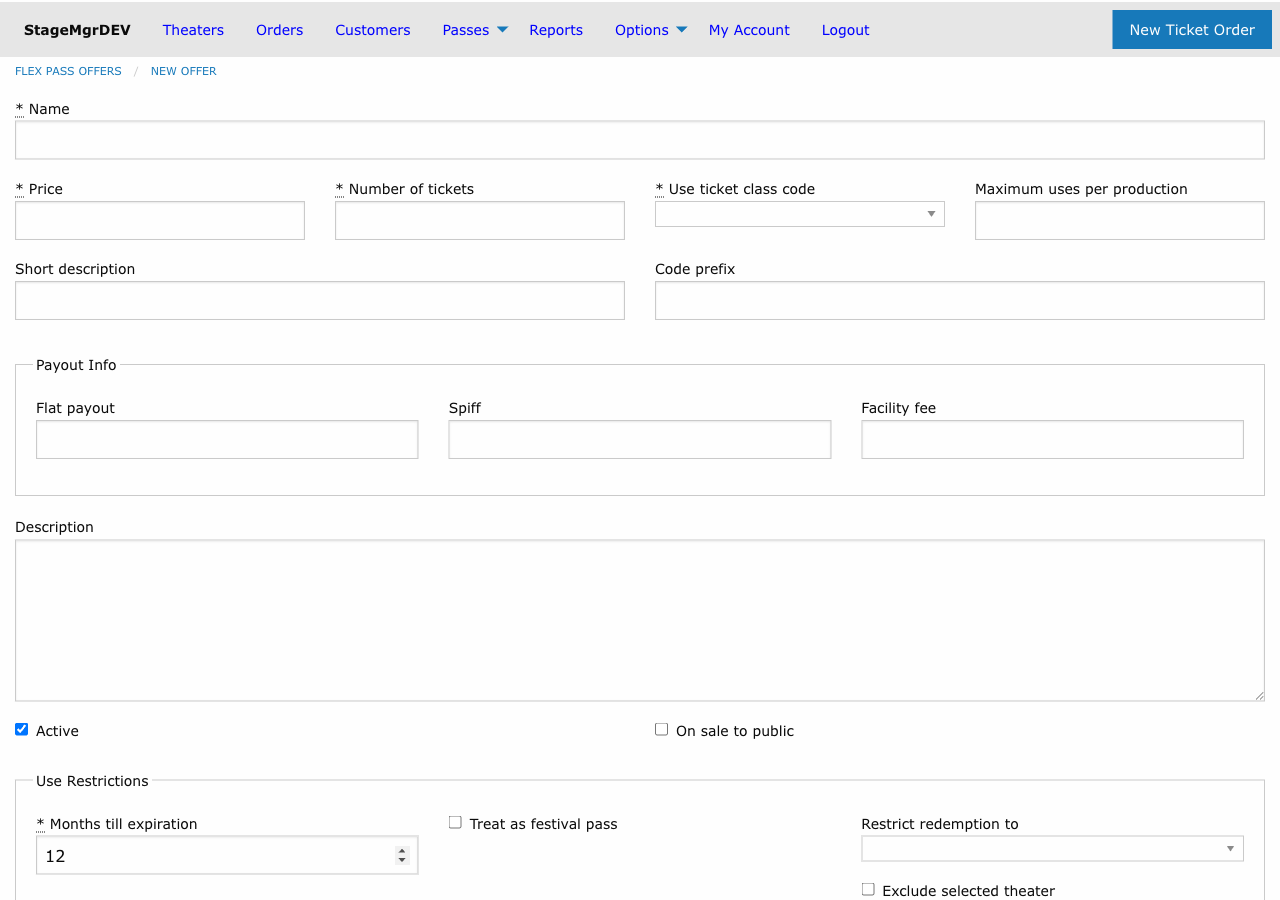
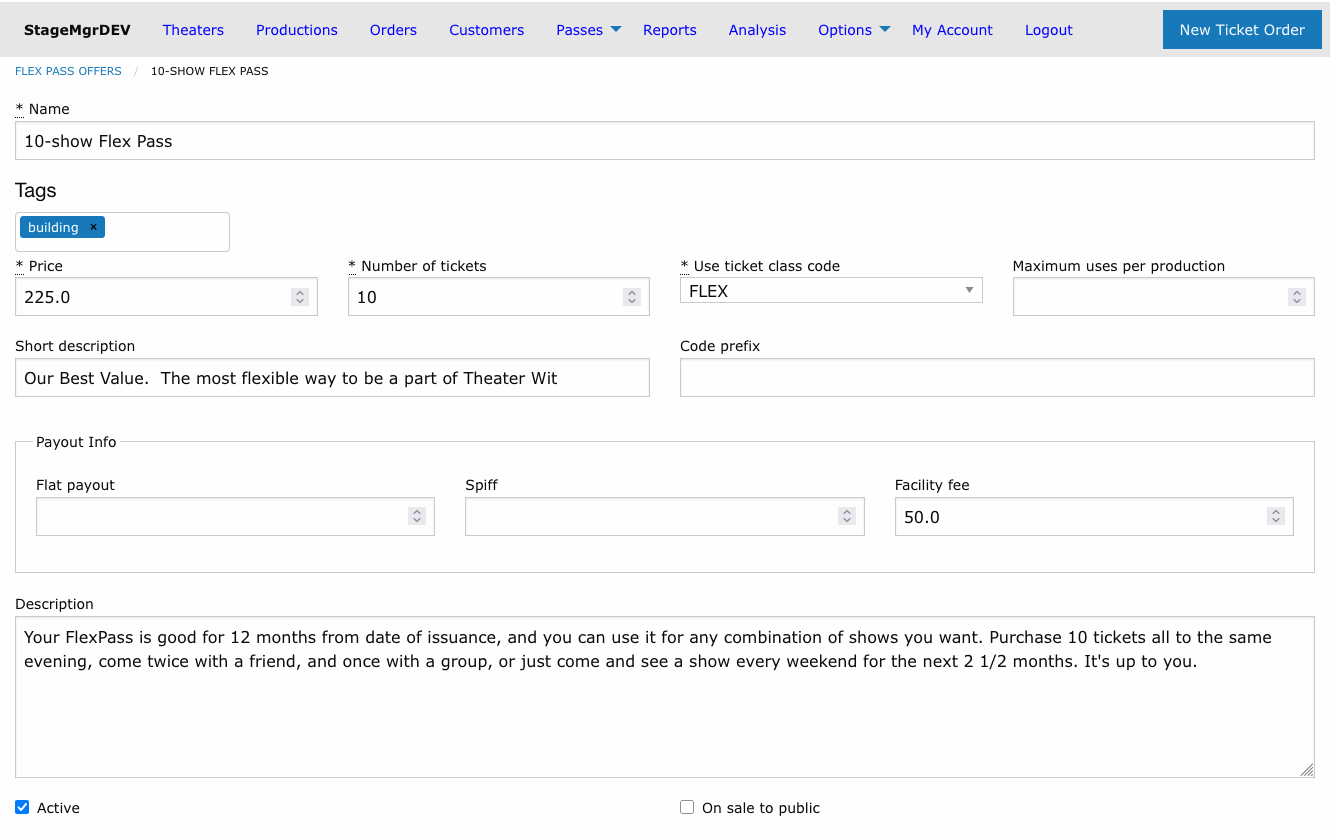
docs: document offer tags, membership usage report, and offer index controls
- Add Tags sections to the membership offer and flex pass offer pages
  (autocomplete, pills, case-insensitive matching, search by tag).
- Document the offer index controls: Edit/Create Order/Usage buttons and
  the red Inactive label on memberships; Edit/Destroy/Create Order plus
  the Inactive and blue theater-restriction labels on flex passes.
- Rewrite the Membership Usage report section to match the real
  Month/Offer/Memberships/Collected/Paid layout, the per-offer breakout
  and All Offers summary rows, the grand Total row, the per-offer Usage
  button (entire history), and the current-month exclusion.
- Recapture the offer form screenshots (now showing the Tags field) and
  add list/report screenshots.

Claude-Session: https://claude.ai/code/session_012jmcQsEYMWTicJY9DfBCjs

diff --git a/docs/manual/reports/membership-reports.md b/docs/manual/reports/membership-reports.md
@@ -20,9 +20,9 @@ CSV of individual membership orders, with an optional TRG-compatible format.
 
 ### Purpose
 
-The Membership Usage report tracks membership activity over time, showing how many memberships
-were sold and how much income they generated in each month. It is useful for trend analysis,
-budgeting, and reporting to management.
+The Membership Usage report tracks membership activity over time, showing -- for each month and
+each membership offer -- how many memberships were active, how much was collected, and how much
+was paid out. It is useful for trend analysis, budgeting, and reporting to management.
 
 ### Generating the Report
 
@@ -37,20 +37,42 @@ budgeting, and reporting to management.
 | **Start Date** | Yes | The beginning of the reporting period |
 | **End Date** | Yes | The end of the reporting period |
 
-!!! note "Auto-Expanded Date Ranges"
+!!! note "Full months only"
     The system automatically expands your date range to align with full calendar months. For
-    example, if you enter March 10 through May 15, the report will cover March 1 through
-    May 31. This ensures consistent month-over-month comparisons.
+    example, if you enter March 10 through May 15, the report covers March 1 through May 31.
+    This keeps month-over-month comparisons consistent.
+
+!!! warning "The current month is never included"
+    The current month is always excluded, because its payment data is still incomplete. A report
+    run at any point in July, for instance, ends at June 30. This applies to every way of running
+    the report, including the per-offer **Usage** button.
 
 ### Output Format
 
+The report is grouped by month. Within each month there is one **detail row per membership offer**,
+followed by an **All Offers** summary row that totals that month across every offer. A single grand
+**Total** row at the very bottom sums all of the detail rows across every month in the range.
+
 | Column | Description |
 |---|---|
-| **Month** | Calendar month (e.g., January 2026) |
-| **New Memberships** | Number of new memberships sold during the month |
-| **Renewals** | Number of membership renewals processed |
-| **Total Active** | Total active memberships at end of month |
-| **Income** | Total membership income for the month |
+| **Month** | Calendar month (e.g., `2026-05`). The final row reads **Total**. |
+| **Offer** | The membership offer name on detail rows; **All Offers** on the monthly summary rows. |
+| **Memberships** | Number of memberships active in that month for that offer. |
+| **Collected** | Total amount collected on membership orders. |
+| **Paid** | Total membership payments applied. |
+
+### Running the Report for a Single Offer
+
+You can run this report for one membership offer over its entire history straight from the
+[Membership Offers list](../offers/membership-offers.md#the-membership-offers-list): click the
+**Usage** button on the offer's row.
+
+![Membership Usage report for a single offer, broken out by month with Month, Offer, Memberships, Collected, and Paid columns](../assets/images/screenshots/reports-membership-usage-offer.png)
+
+The per-offer report behaves the same as the full report with two differences:
+
+- The date range is set automatically to span from the offer's first membership payment through the end of last month -- you don't choose dates.
+- Because only one offer is included, the redundant per-month **All Offers** summary rows are omitted. The grand **Total** row at the bottom still totals every month.
 
 ---
 

diff --git a/docs/manual/offers/membership-offers.md b/docs/manual/offers/membership-offers.md
@@ -76,6 +76,29 @@ Leave both fields blank to skip the trial period and begin full-price billing im
 | **HTML Description** | Rich HTML content displayed on the membership detail/sales page. |
 | **Email HTML** | HTML content included in the membership confirmation email sent after purchase. |
 
+### Tags
+
+Tags are free-form labels you can attach to a membership offer to group it for analysis and reporting -- for example by campaign, tier family, season, or any attribute you want to slice by later. Tags are arbitrary text you define and can change at any time.
+
+A membership offer can have any number of tags. They appear as rounded pill labels in the **Tags** field on the offer form, next to the offer name in the Membership Offers list, and on the offer detail page.
+
+#### Adding a tag
+
+1. Click into the **Tags** field on the membership offer form.
+2. Begin typing. As you type, a dropdown suggests existing tag names already used on other membership offers -- click one to apply it, or keep typing to create a brand-new tag.
+3. Press **Enter** (or type a comma) to commit the tag as a pill.
+4. Repeat to add as many tags as you need, then save the form.
+
+!!! tip "Reuse existing tags when possible"
+    The autocomplete suggestions help you converge on a consistent vocabulary. Tags are matched case-insensitively, so "Gift" and "gift" are treated as the same tag, with the casing of the first one preserved.
+
+#### Removing a tag
+
+Click the **x** on the right side of any pill to remove that tag, then save the form. The tag is removed from this offer only; it remains available on any other offer that uses it.
+
+!!! tip "Search by tag"
+    The search box on the Membership Offers list matches tag names as well as offer names, so you can quickly filter the list down to every offer sharing a tag.
+
 ---
 
 ## How Membership Billing Works
@@ -94,6 +117,25 @@ Leave both fields blank to skip the trial period and begin full-price billing im
 2. The system issues up to **Tickets Per Performance** tickets using the **Use Ticket Class Code**.
 3. If guest tickets are configured via **Use Member Friend Code**, additional tickets are issued under that class.
 4. Members can redeem tickets for each performance independently -- there is no total cap across the membership period.
+
+---
+
+## The Membership Offers List
+
+![Membership offers list showing Edit, Create Order, and Usage buttons, tag pills, and red Inactive labels](../assets/images/screenshots/offers-membership-list.png)
+
+Each row on the Membership Offers list has an actions column with three buttons:
+
+| Button | What it does |
+|--------|--------------|
+| **Edit** | Opens the offer's edit form. |
+| **Create Order** | Starts a new membership order for this offer. For inactive offers this button is shown greyed out and disabled, since inactive offers cannot be sold. |
+| **Usage** | Opens the [Membership Usage report](../reports/membership-reports.md#membership-usage) for this offer alone, covering its entire history. |
+
+The **On Sale to Public** column shows a checkmark when the offer is publicly purchasable. Offers whose status is **Inactive** show a red **Inactive** label in this column instead.
+
+!!! tip "Usage over the offer's full history"
+    The **Usage** button runs the report from the offer's first membership payment through the end of last month -- you don't need to pick a date range. See [Membership Reports](../reports/membership-reports.md#running-the-report-for-a-single-offer) for what the per-offer report contains.
 
 ---
 

diff --git a/docs/manual/offers/flex-pass-offers.md b/docs/manual/offers/flex-pass-offers.md
@@ -74,6 +74,24 @@ A flex pass is a prepaid ticket package. The patron purchases a set number of ti
 | **Short Description** | Brief summary displayed in offer listings and checkout. |
 | **Long Description** | Full description displayed on the flex pass detail page. |
 
+### Tags
+
+Tags are free-form labels you can attach to a flex pass offer to group it for analysis and reporting -- for example by season, package family, partner, or any attribute you want to slice by later. Tags are arbitrary text you define and can change at any time.
+
+A flex pass offer can have any number of tags. They appear as rounded pill labels in the **Tags** field on the offer form, next to the offer name in the Flex Pass Offers list, and on the offer detail page.
+
+#### Adding a tag
+
+1. Click into the **Tags** field on the flex pass offer form.
+2. Begin typing. As you type, a dropdown suggests existing tag names already used on other flex pass offers -- click one to apply it, or keep typing to create a brand-new tag.
+3. Press **Enter** (or type a comma) to commit the tag as a pill.
+4. Repeat to add as many tags as you need, then save the form.
+
+Click the **x** on any pill to remove that tag. Tags are matched case-insensitively, and removing a tag from one offer leaves it available on any others that use it.
+
+!!! tip "Search by tag"
+    The search box on the Flex Pass Offers list matches tag names as well as offer names, so you can quickly filter the list down to every offer sharing a tag.
+
 ---
 
 ## How Redemption Works
@@ -100,6 +118,24 @@ Flex passes expire based on the **Months Till Expiration** value, counted from t
 
 !!! warning "Expired passes cannot be extended"
     Once a flex pass has expired, it cannot be reactivated through the offer settings. Contact a system administrator if an exception is needed.
+
+---
+
+## The Flex Pass Offers List
+
+![Flex pass offers list showing tag pills, red Inactive labels, and blue theater-restriction labels in the Restrictions column](../assets/images/screenshots/offers-flex-pass-list.png)
+
+Each row on the Flex Pass Offers list has an actions column with **Edit**, **Destroy**, and **Create Order** buttons. The **Create Order** button is shown greyed out and disabled for offers that are not active, since inactive offers cannot be sold.
+
+The **Restrictions** column summarizes an offer's status and scope using small labels:
+
+| Label | Meaning |
+|-------|---------|
+| Red **Inactive** | The offer's **Active** checkbox is unchecked -- it cannot be purchased or redeemed. |
+| Blue **Only [Theater]** | Redemption is restricted to the named theater (the **Theater** field with **Exclude Theater** unchecked). |
+| Blue **All but [Theater]** | Redemption is allowed everywhere except the named theater (the **Theater** field with **Exclude Theater** checked). |
+
+An offer can show both an Inactive label and a theater-restriction label at the same time.
 
 ---
 